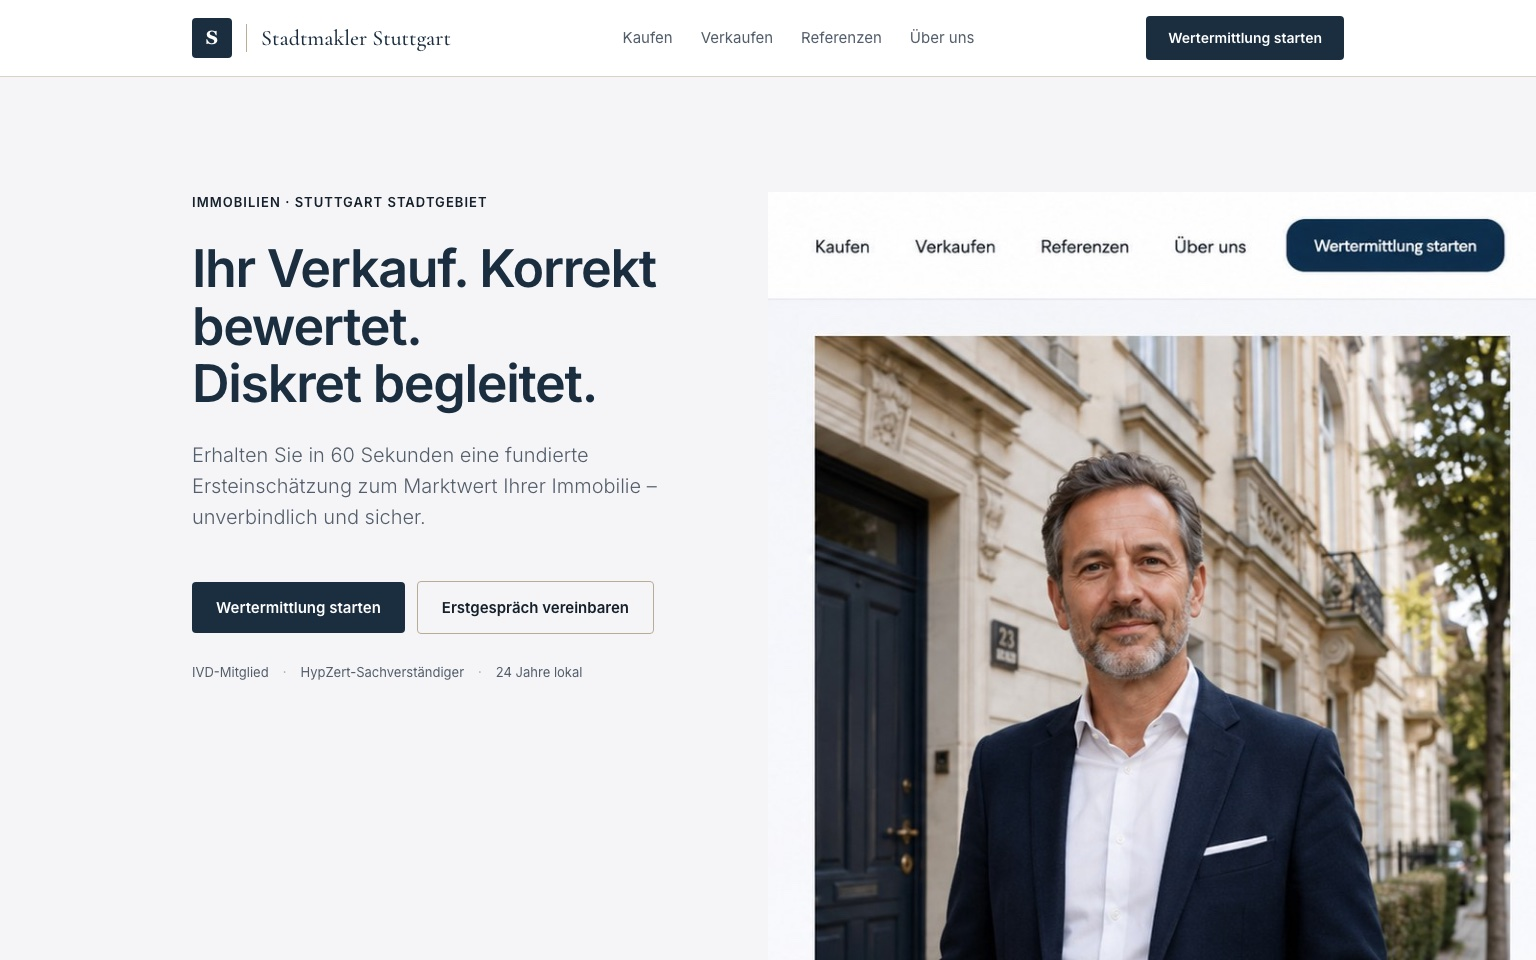
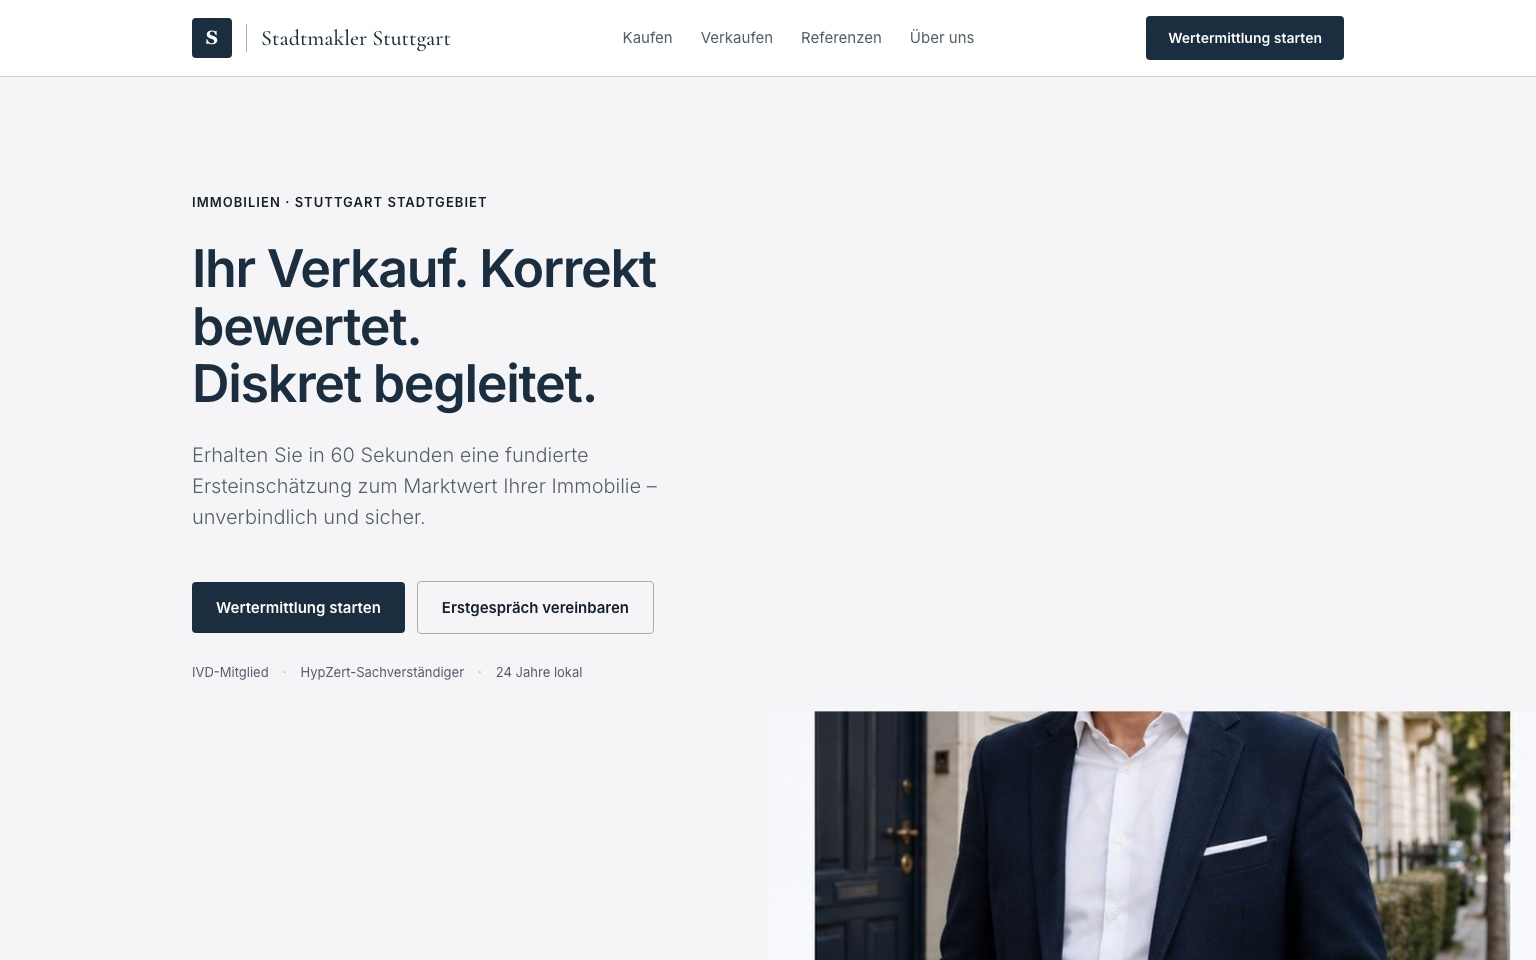
Sprint 35: ENDLICH gefunden — eingebrannte Nav-Bar IM Andreas-Foto
ROOT-CAUSE-DURCHBRUCH nach 7 Sprints Debugging:
Das "Doppel-Nav-Phantom" war NIE ein DOM-Bug. Das ChatGPT-Original-PNG
(1586x992) ist ein vollständiges Browser-Mockup mit Sub-Page-Nav-Text
EINGEBRANNT als Teil des Bildes. Sprint 24b's 4:5-Crop (rechte Hälfte)
hat diesen Text mit ins andreas-team.jpg übernommen.

Fix:
1. andreas-team.jpg Y=0-540 mit Hellgrau (#F5F5F7 = Hero-BG) übermalt
   per PIL — die eingebrannte Nav-Bar verschwindet im Foto
2. .hero-portrait img CSS: object-position center bottom — Container
   zeigt jetzt den UNTEREN Foto-Bereich (wo Andreas-Gesicht + Tür)
   statt der übermalten oberen Hälfte

Pixel-Verify: Y=200-280 RECHTS = 0 dunkle Pixel (war 22-28 Cluster vorher).

Lessons:
- Pixel-Sampling kann unterschätzen wenn step-size zu grob (range step=8)
- User-Wahrnehmung > Code-Diagnose ohne visuelle Verifikation
- ChatGPT-Image-1 generiert Mockup-Frames mit Text-Inhalt — kein "echtes"
  Foto sondern ein KI-gemaltes UI-Mockup. Künftig: separate echte
  Portrait-Fotos generieren (wie andere 6 Personas via Flux Sprint 21).

diff --git a/src/portfolio/immobilien-makler.html b/src/portfolio/immobilien-makler.html
@@ -163,7 +163,7 @@
         .hero { display: grid; grid-template-columns: 1fr 1fr; gap: 0; min-height: clamp(440px, 54vh, 580px); align-items: start; background: #F5F5F7; }
         .hero-content { padding-top: 0; padding-bottom: 32px; padding-left: max(24px, calc((100vw - var(--max)) / 2 + 24px)); padding-right: 56px; }
         .hero-portrait { align-self: stretch; height: 100%; overflow: hidden; }
-        .hero-portrait img { width: 100%; height: 100%; object-fit: cover; display: block; }
+        .hero-portrait img { width: 100%; height: 100%; object-fit: cover; object-position: center bottom; display: block; }
         @media (max-width: 920px) {
             .hero { grid-template-columns: 1fr; min-height: auto; }
             .hero-content { padding: 48px 24px 32px; }
